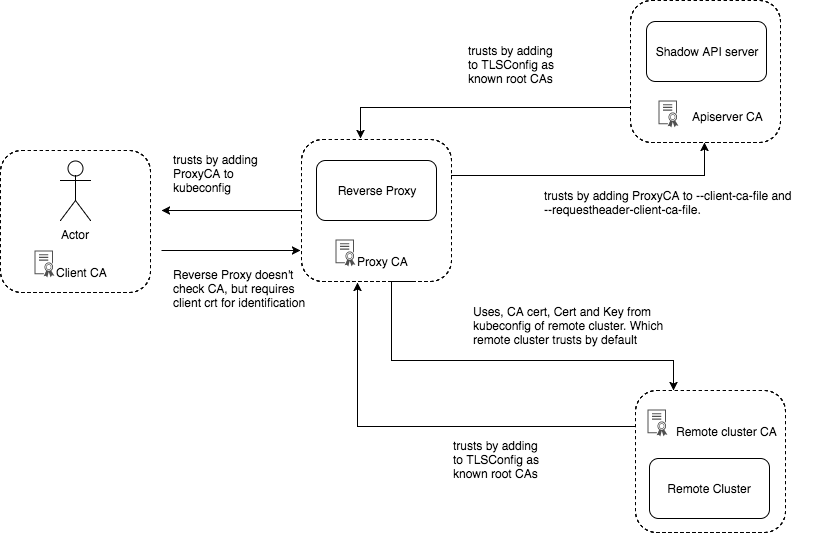
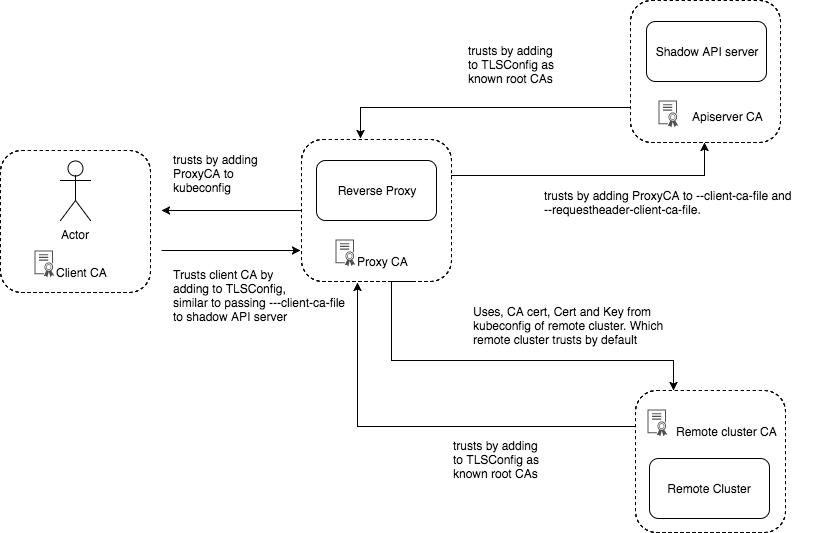
Change Proxy to trust only specified CA

Changed region(s): [[0.2153, 0.5103, 0.4305, 0.6004]]

diff --git a/server.go b/server.go
@@ -34,6 +34,8 @@ const (
 	//APIServerCACert CA used to sign API server cert.
 	//This must be trusted by proxy server
 	APIServerCACert = "./certs/apiserver/pki/ca.crt"
+	//ClientCACert that must be trusted by proxy server
+	ClientCACert = "./certs/client/pki/ca.crt"
 )
 
 //ParsedYaml holds contents of a parsed yaml
@@ -151,10 +153,16 @@ func main() {
 			}
 		}
 	})
+	caCert, _ := ioutil.ReadFile(ClientCACert)
+	caCertPool := x509.NewCertPool()
+	caCertPool.AppendCertsFromPEM(caCert)
+
 	server := &http.Server{
 		Addr: "127.0.0.1:8080",
 		TLSConfig: &tls.Config{
 			ClientAuth: tls.RequestClientCert,
+			//similar to setting client-ca for shadow API server
+			RootCAs: caCertPool,
 		},
 	}
 	//should accept any client cert?
